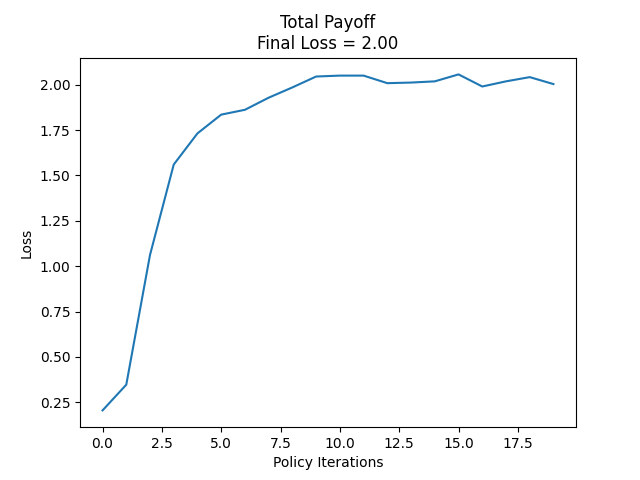
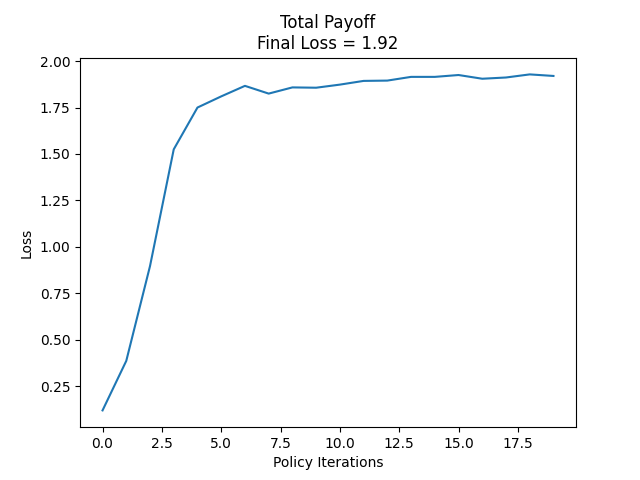
add trip-no trip flag

diff --git a/Utils/mdp.py b/Utils/mdp.py
@@ -359,7 +359,7 @@ class MarkovDecisionProcess:
         self.num_car_reduced_states = len(self.regions) * (self.max_tracked_eta + 1 + self.max_tracked_eta + 1) * self.num_binned_battery + len(self.regions) * self.num_binned_battery * self.num_charging_rates
         self.num_total_reduced_states = self.num_car_reduced_states + self.num_trip_reduced_states + self.num_plug_states
         ## TODO: Fix it!
-        self.num_total_local_states = len(self.regions) * (self.connection_patience + 1) + len(self.regions) + self.num_binned_battery + 1 #len(self.regions) * (self.connection_patience + 1) + 3
+        self.num_total_local_states = len(self.regions) * (self.connection_patience + 1) + len(self.regions) + self.num_binned_battery + 1 + 1 #len(self.regions) * (self.connection_patience + 1) + 3
         ## Variables keeping track of states
         self.state_dict = {}
         self.state_to_id = {}
@@ -1343,7 +1343,11 @@ class MarkovDecisionProcess:
 #        local_state_counts[1] = eta
 #        local_state_counts[2] = battery
         begin, end = self.local_order_map[dest]
-        local_state_counts[(1 + len(self.regions) + self.num_binned_battery):] = self.state_counts[begin:end]
+        start = 1 + len(self.regions) + self.num_binned_battery
+        term = start + (end - begin)
+        local_state_counts[start:term] = self.state_counts[begin:end]
+        if torch.sum(self.state_counts[begin:end]) > 0:
+            local_state_counts[term] = 1
         return local_state_counts
     
     ## Check if the action has the potential to be feasible
